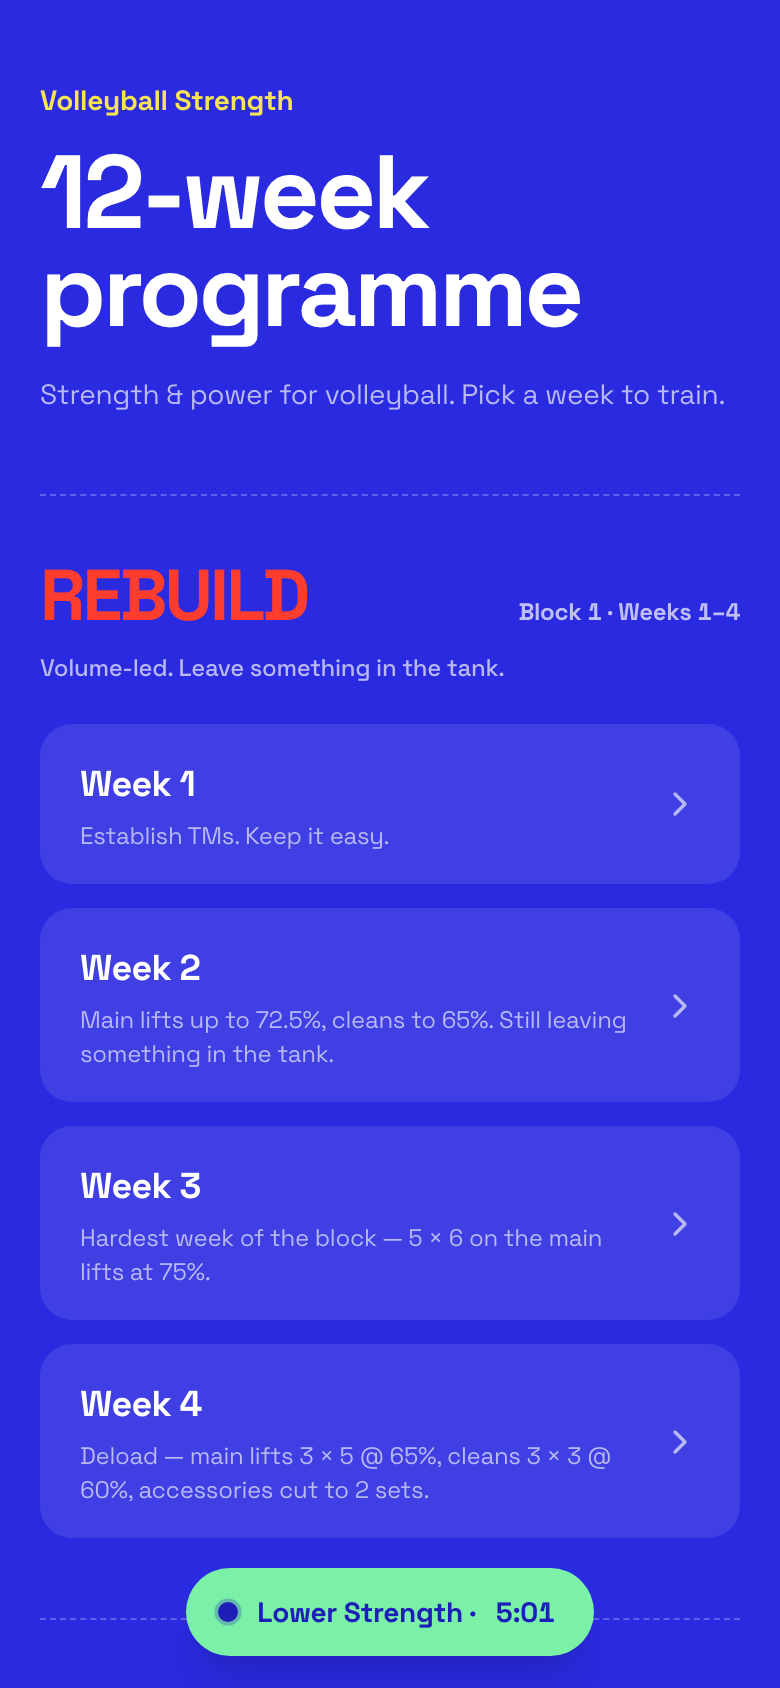
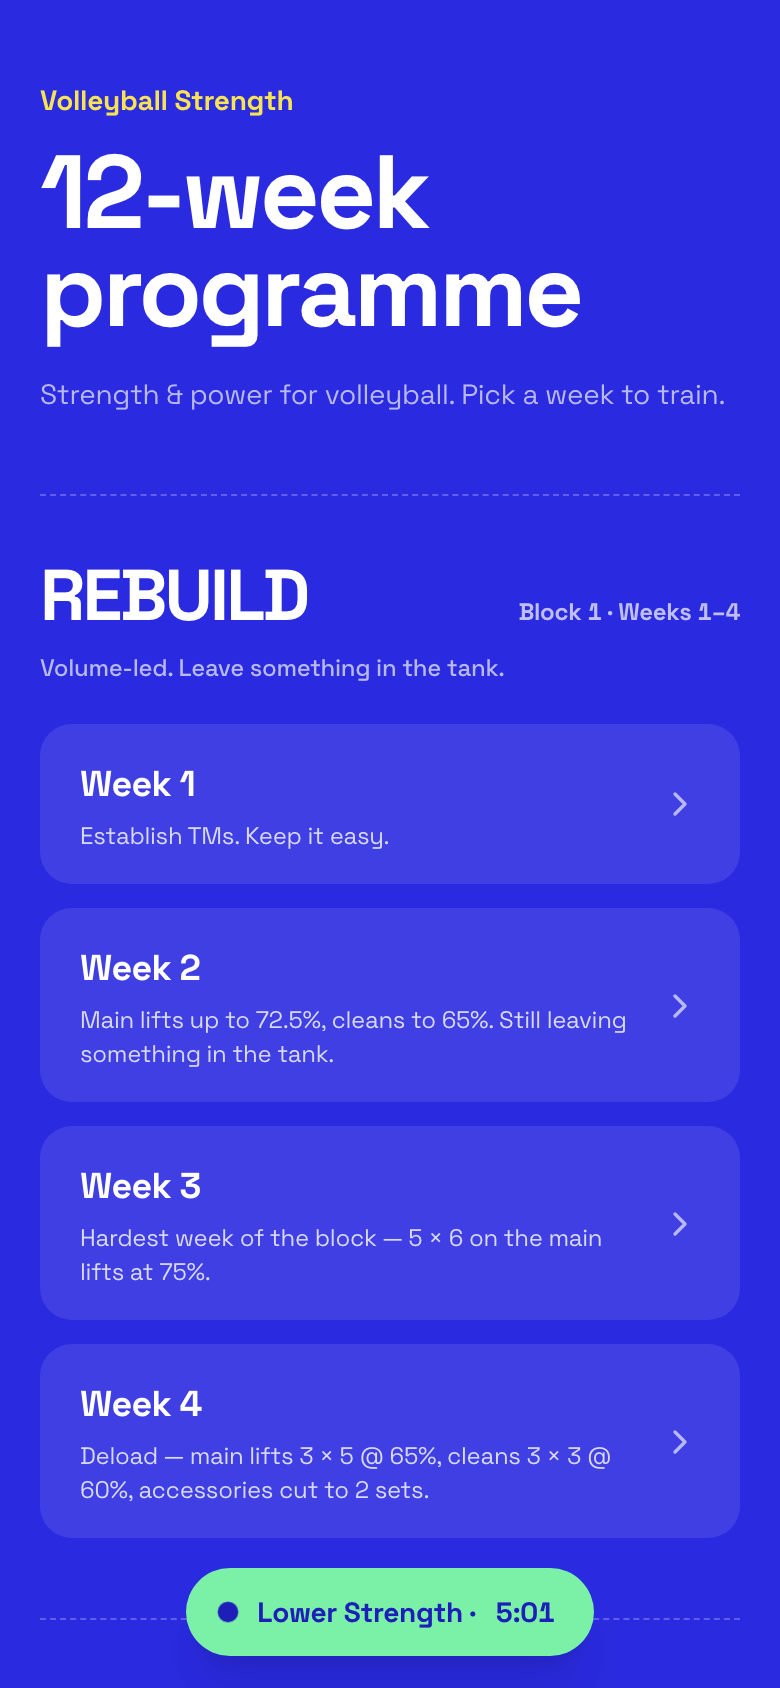
Q2: performance + accessibility
- Remove maximum-scale/user-scalable from viewport meta (a11y meta-viewport audit)
- Rebuild block heading: text-flame -> text-white (2.37:1 on court bg, needed 3:1)
- Week row focus text: text-mist -> text-white/80 (3.72:1 on white/10 card, needed 4.5:1)

Lighthouse mobile: Performance 93, Accessibility 100, Best Practices 100.
Bundle unchanged at 143.5 kB gzip. Manifest + sw.js verified installable.

diff --git a/src/pages/WeeksPage.tsx b/src/pages/WeeksPage.tsx
@@ -41,7 +41,7 @@ const BLOCK_TAGLINES: Record<string, string> = {
 };
 
 export const BLOCK_TEXT_COLOR: Record<string, string> = {
-  Rebuild: 'text-flame',
+  Rebuild: 'text-white',
   Load: 'text-zest',
   Convert: 'text-mint',
 };
@@ -125,7 +125,7 @@ const WeekRow: React.FC<{ week: WeekPlan; completedSets: ProgressMap }> = ({ wee
       <div className="flex items-center justify-between gap-3">
         <div className="min-w-0 flex-1">
           <h3 className="text-lg font-bold tracking-[-0.02em]">Week {week.weekNumber}</h3>
-          <p className="text-xs leading-snug text-mist line-clamp-2 mt-1">{week.focus}</p>
+          <p className="text-xs leading-snug text-white/80 line-clamp-2 mt-1">{week.focus}</p>
         </div>
         <div className="flex items-center gap-2 flex-shrink-0">
           {done ? (

diff --git a/index.html b/index.html
@@ -2,7 +2,7 @@
 <html lang="en">
   <head>
     <meta charset="UTF-8" />
-    <meta name="viewport" content="width=device-width, initial-scale=1.0, maximum-scale=1.0, user-scalable=no" />
+    <meta name="viewport" content="width=device-width, initial-scale=1.0" />
     <title>Volleyball Strength</title>
     <meta name="description" content="A 12-week strength and power training programme for volleyball players." />
     <meta name="theme-color" content="#2a2ae0" />
